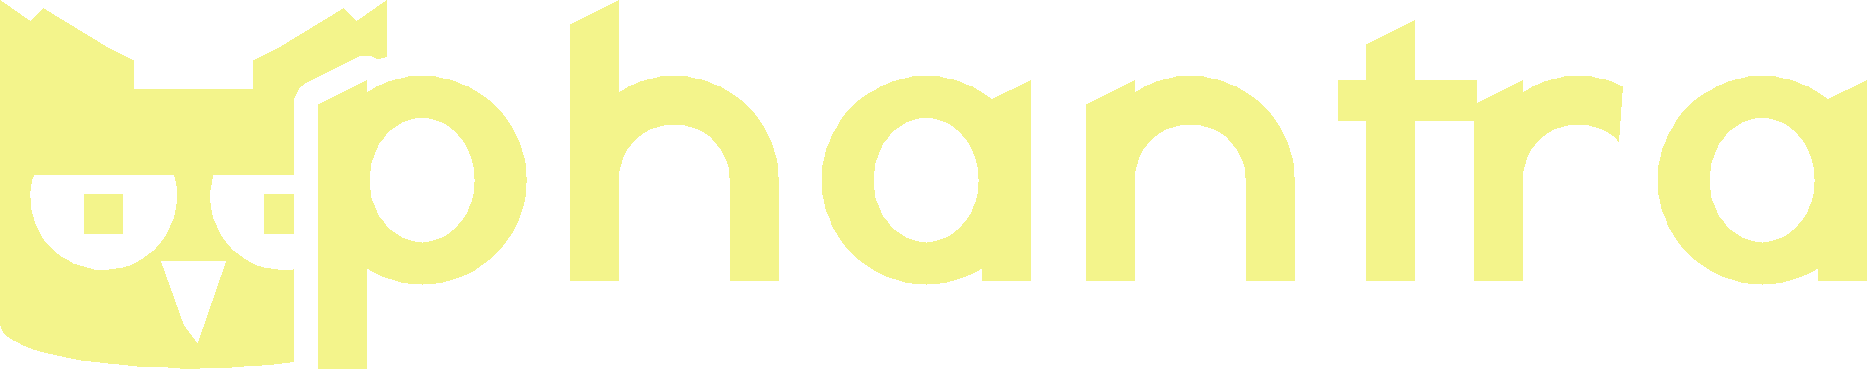
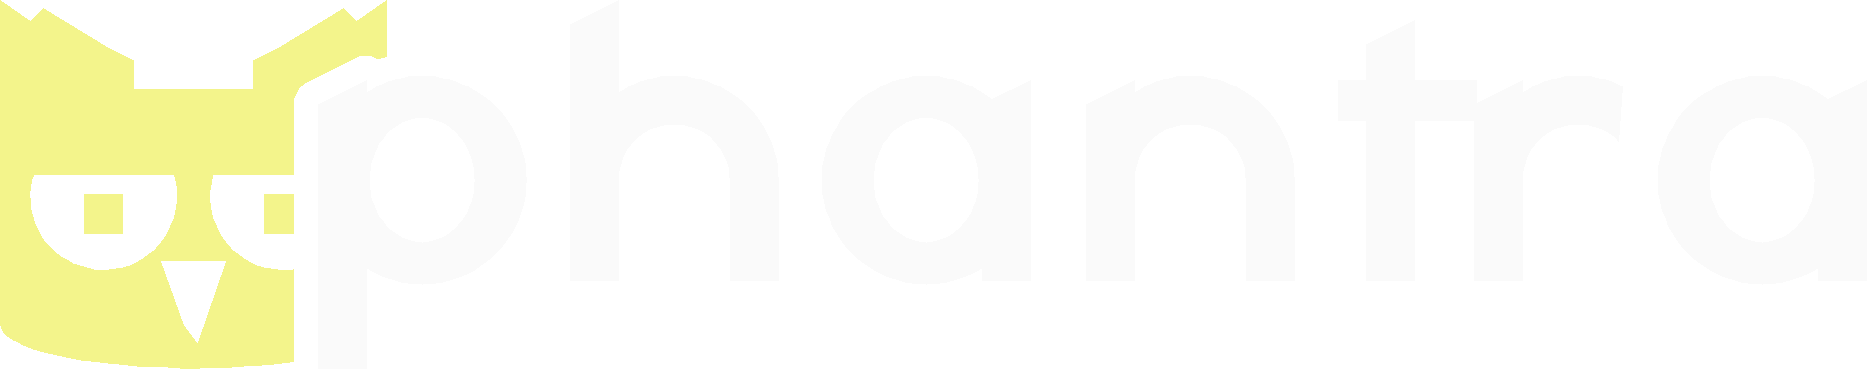
Watermark: white lettering, yellow owl
Mike, 2026-11-03: "keep phantra lettering white". The lockup PNG now draws
the word in the header's white (#fafafa) and only the owl in --lemon; the
test checks for both colours.

Claude-Session: https://claude.ai/code/session_013baW73pkYjy7RKnzohPJEh

Changed region(s): [[0.1553, 0.0, 1.0, 1.0]]

diff --git a/ops/watermark_lockup_png.py b/ops/watermark_lockup_png.py
@@ -1,9 +1,10 @@
 #!/usr/bin/env python3
 """
 Draw src/assets/watermark_lockup.png: the Phantra lockup (the owl hiding behind
-the hand-drawn lowercase "phantra", at rest) in the landing page's yellow, on a
-transparent background -- the free plan's watermark since 2026-11-03 (Mike:
-"the yellow logo one and replicate the lettering on the main landing page").
+the hand-drawn lowercase "phantra", at rest) on a transparent background -- the
+free plan's watermark since 2026-11-03. The owl is in the landing page's yellow
+and the lettering stays white (Mike: "the yellow logo one and replicate the
+lettering on the main landing page", then "keep phantra lettering white").
 
 The geometry is read from web/src/components/owl-lockup-paths.ts, the same paths
 the site header draws, so the mark and the site never disagree. Every path is
@@ -22,7 +23,8 @@ from PIL import Image, ImageChops, ImageDraw
 ROOT = Path(__file__).resolve().parent.parent
 PATHS = ROOT / "web" / "src" / "components" / "owl-lockup-paths.ts"
 OUT = ROOT / "src" / "assets" / "watermark_lockup.png"
-LEMON = (243, 244, 139)          # --lemon on the landing page (#f3f48b)
+LEMON = (243, 244, 139)          # --lemon on the landing page (#f3f48b): the owl
+WHITE = (250, 250, 250)          # the header lockup's own colour on the site: the word
 SCALE = 2.0                      # pixels per lockup unit (viewbox 960 x 204 -> 1920 x 408)
 
 
@@ -72,9 +74,13 @@ def draw() -> Image.Image:
     owl = _mask(_const(src, "OWL"), size, (x, y))
     wall = _mask(_const(src, "WALL"), size, (x, y))
     shown = ImageChops.multiply(owl, ImageChops.invert(wall))      # owl outside the wall
-    alpha = ImageChops.lighter(word, shown)
-    im = Image.new("RGBA", size, (*LEMON, 0))
-    im.putalpha(alpha)
+    im = Image.new("RGBA", size, (0, 0, 0, 0))
+    owl_layer = Image.new("RGBA", size, (*LEMON, 0))
+    owl_layer.putalpha(shown)
+    word_layer = Image.new("RGBA", size, (*WHITE, 0))
+    word_layer.putalpha(word)
+    im.alpha_composite(owl_layer)
+    im.alpha_composite(word_layer)
     return im.crop(im.getbbox())
 
 

diff --git a/src/watermark.py b/src/watermark.py
@@ -69,8 +69,9 @@ from . import db
 ENV = "PHANTRA_WATERMARK"
 TEXT = "Phantra"                # the fallback mark when the lockup file cannot be read
 # The site's lockup -- the owl hiding behind the hand-drawn lowercase
-# "phantra" -- in the landing page's yellow (--lemon), since 2026-11-03 (Mike:
-# "the yellow logo one and replicate the lettering on the main landing page");
+# "phantra" -- with the owl in the landing page's yellow (--lemon) and the
+# lettering white, since 2026-11-03 (Mike: "the yellow logo one and replicate
+# the lettering on the main landing page", then "keep phantra lettering white");
 # it replaced the red dot. Drawn from the site's own paths by
 # ops/watermark_lockup_png.py and kept beside the code so `src` reads no file
 # from `web/`.
@@ -220,7 +221,7 @@ def _name_only(short: int):
 def mark_layer(width: int, height: int):
     """A transparent RGBA layer the size of the frame with the mark drawn
     in its bottom-right corner: the site's lockup (the owl behind the
-    lowercase "phantra") in the landing page's yellow, over a soft dark
+    lowercase "phantra"), the owl yellow and the word white, over a soft dark
     shadow so it reads on a light frame as well as a dark one. The same
     layer marks a still and every frame of a clip."""
     from PIL import Image, ImageFilter

diff --git a/tests/test_watermark.py b/tests/test_watermark.py
@@ -320,13 +320,17 @@ def test_a_paid_invoice_unlocks_the_accounts_renders(acct, monkeypatch):
 
 def test_the_mark_is_the_yellow_lockup():
     """2026-11-03 (Mike): the mark is the site's lockup (the owl behind the
-    lowercase "phantra") in the landing page's yellow, not a red dot."""
+    lowercase "phantra"), the owl in the landing page's yellow and the
+    lettering white, not a red dot."""
     layer = watermark.mark_layer(720, 1280)
     box = layer.getbbox()
     assert box is not None and box[0] > 360 and box[1] > 1088
     yellow = sum(1 for r, g, b, a in layer.crop(box).getdata()
                  if a > 150 and r > 200 and g > 200 and b < 180)
-    assert yellow > 200, "no yellow lockup drawn in the mark"
+    white = sum(1 for r, g, b, a in layer.crop(box).getdata()
+                if a > 150 and r > 220 and g > 220 and b > 220)
+    assert yellow > 200, "no yellow owl drawn in the mark"
+    assert white > 200, "no white lettering drawn in the mark"
     assert watermark.LOGO_PATH.is_file()
 
 

diff --git a/CLAUDE.md b/CLAUDE.md
@@ -428,7 +428,7 @@ model cannot draw readable UI. The in-chat Final cut ends on the kit's end card 
   connector (`voice_preview`, `talking_photo`) and the composer's card (`/api/talking-photo/*`),
   page `/make/photo-to-talking-video` (its CTA opens `/studio?open=talking-photo`).
 - **The free trial's renders are watermarked** (`src/watermark.py`, 2026-10-11, Mike's call): an
-  account with no plan that is not `credit_exempt` gets a small "Phantra" mark (the site lockup in the landing yellow since 2026-11-03, `src/assets/watermark_lockup.png` from `ops/watermark_lockup_png.py`,
+  account with no plan that is not `credit_exempt` gets a small "Phantra" mark (the site lockup since 2026-11-03: the owl in the landing yellow, the word white, `src/assets/watermark_lockup.png` from `ops/watermark_lockup_png.py`,
   bottom-right) on what it publishes through `fal._publish` (fal clips and stills, every effect),
   `nano_banana` stills on the wall (`bank=True`; sheets are not) and `cut/render.py` (exports,
   joins, trims). The MARKED copy goes up at the render's normal key, so no stored name changes;
